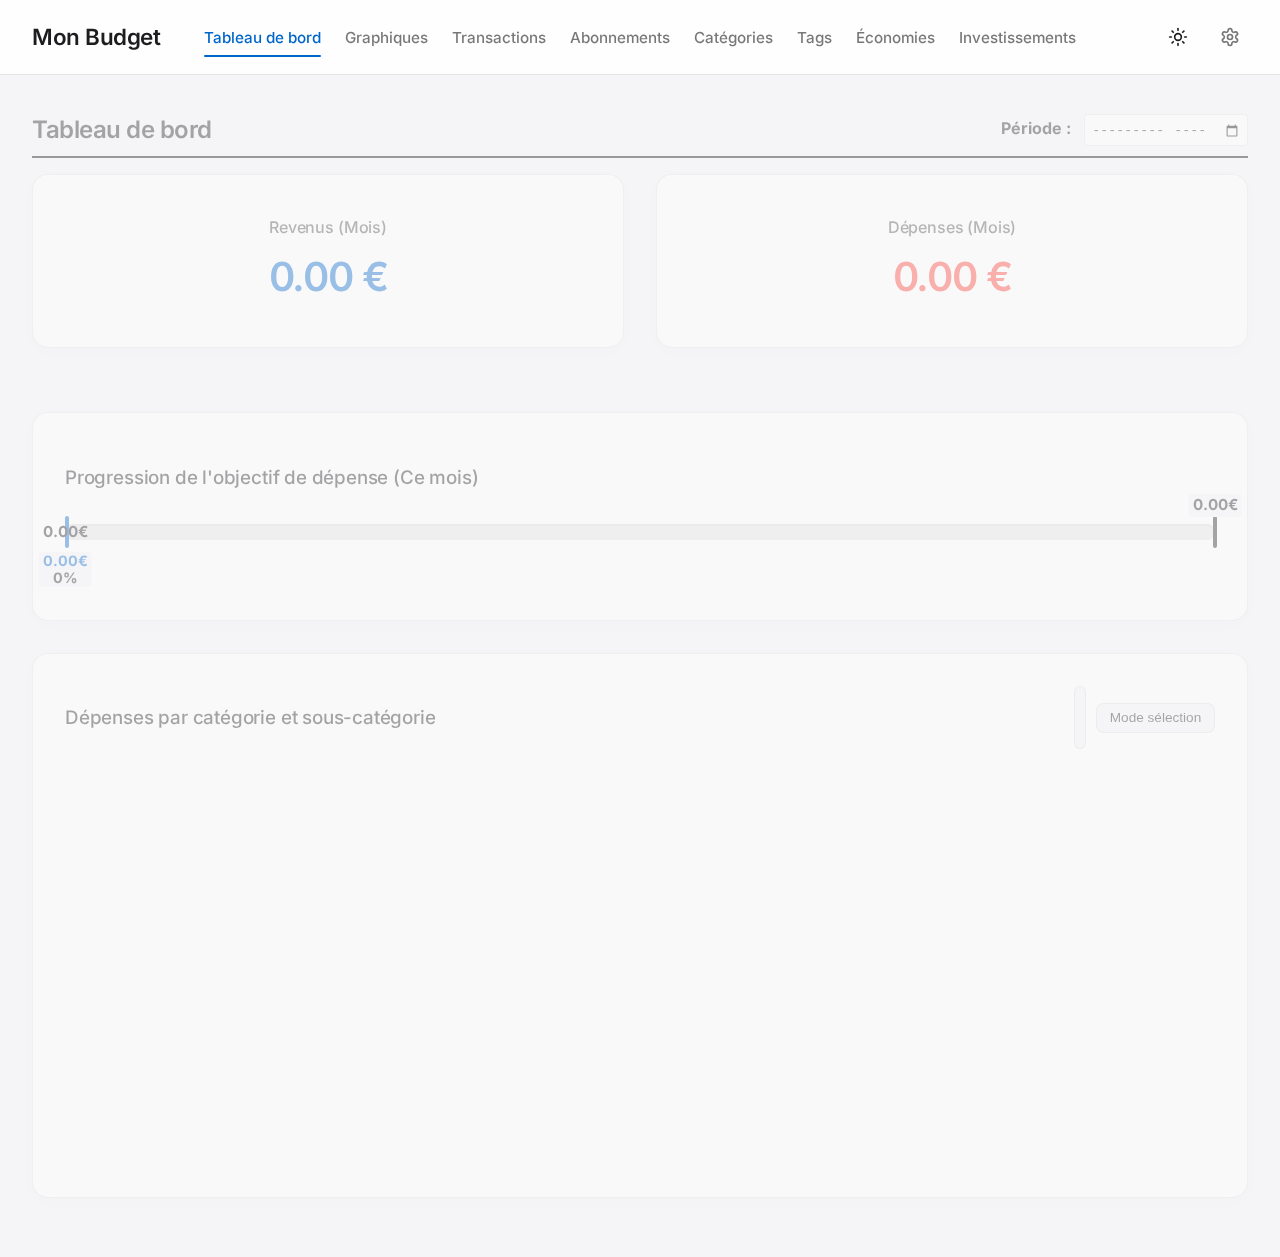
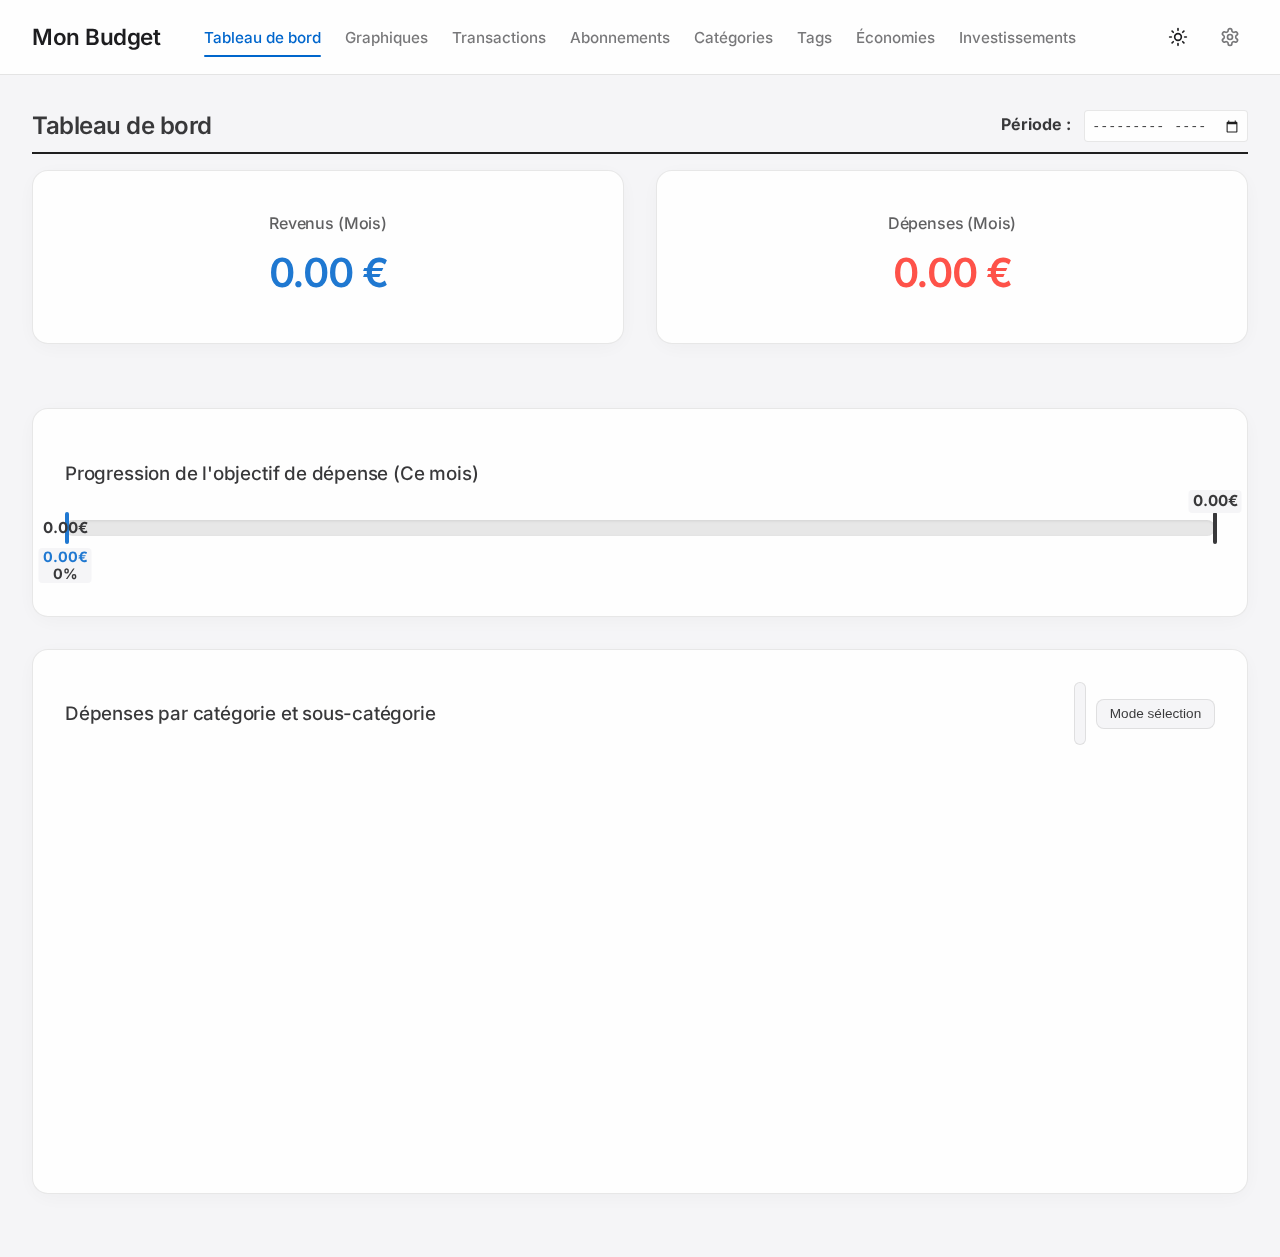
fix: align global real profit totals with monthly calculations
The global 'Bénéfice Réel' calculations ('Cumul Total' and 'Ce mois-ci') were incorrectly subtracting the raw transaction amount for expenses, whereas the monthly table calculations correctly account for the 'real' chart mode by deducting the meal voucher part (mealVoucherPart) from expenses. This patch aligns the global loop over transactions in `renderSavings` with the logic used in the individual row generation, restoring consistency between the table data and global summaries.

diff --git a/script.js b/script.js
@@ -1568,9 +1568,18 @@ function renderSavings() {
 
     appData.transactions.forEach(t => {
         let profitDiff = 0;
-        if (t.type === 'income') profitDiff = t.amount;
-        else if (t.type === 'salary') profitDiff = t.amount - (t.savedAmount || 0);
-        else if (t.type === 'expense') profitDiff = -t.amount;
+        if (t.type === 'income') {
+            profitDiff = t.amount;
+        } else if (t.type === 'salary') {
+            profitDiff = t.amount - (t.savedAmount || 0);
+        } else if (t.type === 'expense') {
+            let actualAmount = t.amount;
+            let chartMode = window.currentChartMode || 'real';
+            if (chartMode === 'real' && t.mealVoucherPart > 0) {
+                actualAmount = t.amount - t.mealVoucherPart;
+            }
+            profitDiff = -actualAmount;
+        }
 
         globalTotalProfit += profitDiff;
 

diff --git a/patch_verify_savings.py b/patch_verify_savings.py
@@ -1,0 +1,54 @@
+import os
+from playwright.sync_api import sync_playwright
+
+def run_cuj(page):
+    page.goto("http://localhost:8000/index.html")
+    page.wait_for_timeout(2000)
+
+    # Bypass login
+    page.evaluate("""() => {
+        window.isAuthenticated = true;
+        document.getElementById('login-overlay').classList.remove('active');
+        document.getElementById('app-content').style.display = 'block';
+        const d = new Date();
+        const y = d.getFullYear();
+        const m = String(d.getMonth() + 1).padStart(2, '0');
+        window.appData = {
+            transactions: [
+                { id: '1', date: '2023-10-15', type: 'income', amount: 2000, categoryId: 'cat1' },
+                { id: '2', date: '2023-10-16', type: 'expense', amount: 500, categoryId: 'cat2', mealVoucherPart: 50 },
+                { id: '3', date: `${y}-${m}-01`, type: 'income', amount: 3000, categoryId: 'cat1' },
+                { id: '4', date: `${y}-${m}-02`, type: 'expense', amount: 1000, categoryId: 'cat2', mealVoucherPart: 100 }
+            ],
+            subscriptions: [],
+            tags: [],
+            categories: [
+                { id: 'cat1', name: 'Salaire', type: 'income' },
+                { id: 'cat2', name: 'Loyer', type: 'expense' }
+            ],
+            spendingGoal: 1000,
+            mealVouchersEnabled: true
+        };
+    }""")
+    page.wait_for_timeout(500)
+
+    # Re-render or just click a navigation link
+    page.evaluate("document.querySelector('[data-target=\"savings\"]').click()")
+    page.wait_for_timeout(1000)
+
+    os.makedirs("/home/jules/verification/screenshots", exist_ok=True)
+    page.screenshot(path="/home/jules/verification/screenshots/verification2.png")
+    page.wait_for_timeout(1000)
+
+if __name__ == "__main__":
+    with sync_playwright() as p:
+        browser = p.chromium.launch(headless=True)
+        context = browser.new_context(
+            record_video_dir="/home/jules/verification/videos"
+        )
+        page = context.new_page()
+        try:
+            run_cuj(page)
+        finally:
+            context.close()
+            browser.close()
